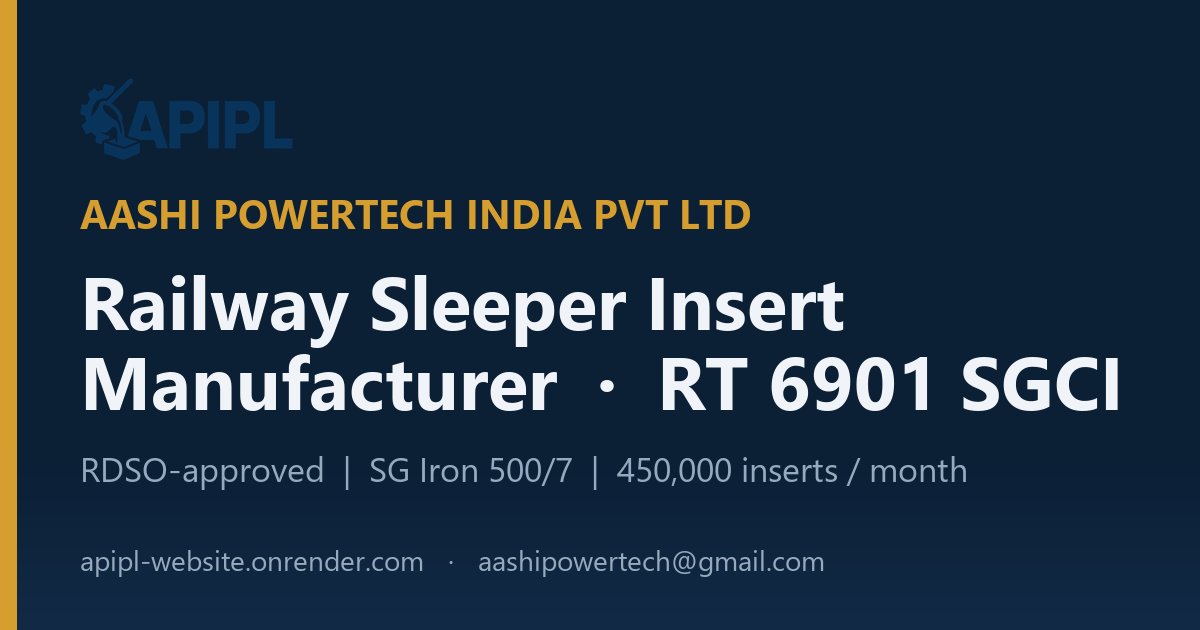
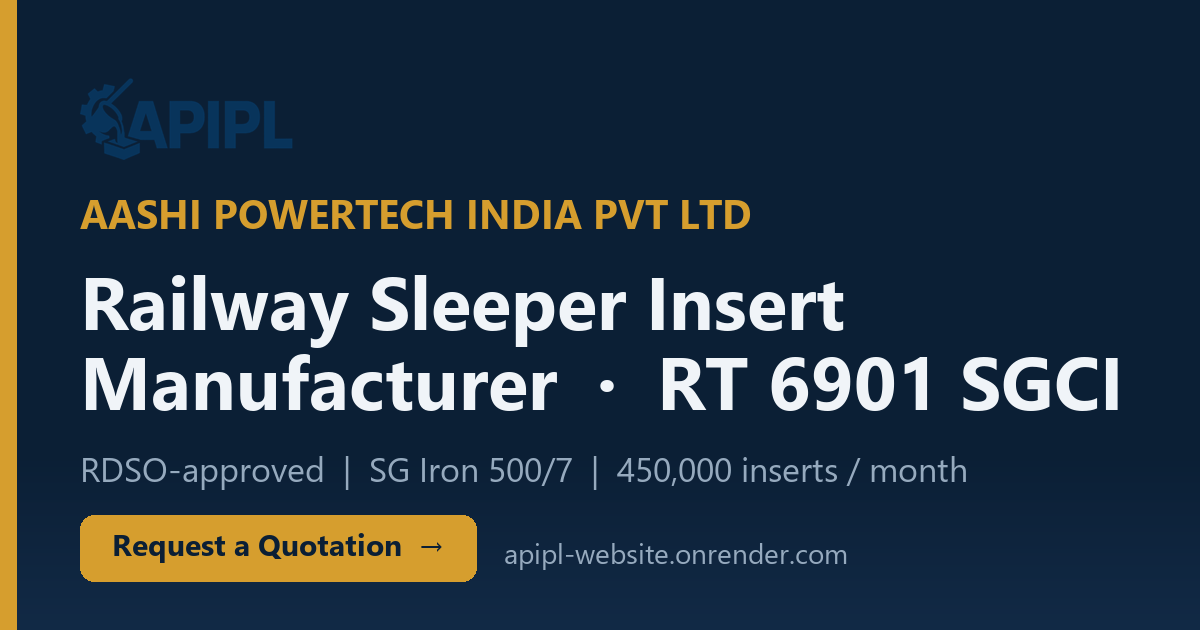
Optimize SEO/social meta lengths and add CTA to OG image
- Trim page title, meta description, og/twitter title and description to recommended lengths
- Add 'Request a Quotation' call-to-action button to the OG share image

Changed region(s): [[0.0617, 0.8143, 0.7092, 0.9349]]

diff --git a/index.html b/index.html
@@ -6,10 +6,10 @@
     <meta name="theme-color" content="#0b1f35" />
 
     <!-- Primary SEO -->
-    <title>APIPL | Railway Sleeper Insert Manufacturer in India | RT 6901 SGCI Insert</title>
+    <title>APIPL | Railway Sleeper Insert Manufacturer in India</title>
     <meta
       name="description"
-      content="Aashi Powertech India Pvt Ltd (APIPL) is an RDSO-approved manufacturer of precision railway sleeper inserts — the RT 6901 SG iron (SGCI) insert for concrete sleepers. ARPA 350 casting lines producing 450,000 inserts/month. Request a quotation."
+      content="RDSO-approved manufacturer of precision railway sleeper inserts — the RT 6901 SG iron (SGCI) insert for concrete sleepers. Request a quotation."
     />
     <meta
       name="keywords"
@@ -28,10 +28,10 @@
     <!-- Open Graph / Facebook / LinkedIn / WhatsApp -->
     <meta property="og:type" content="website" />
     <meta property="og:site_name" content="APIPL — Aashi Powertech India Private Limited" />
-    <meta property="og:title" content="APIPL | Railway Sleeper Insert Manufacturer | RT 6901 SGCI Insert" />
+    <meta property="og:title" content="APIPL | Railway Sleeper Insert Manufacturer in India" />
     <meta
       property="og:description"
-      content="RDSO-approved manufacturer of precision railway sleeper inserts. RT 6901 SG iron insert engineered for concrete sleepers — 450,000 units/month on ARPA 350 lines."
+      content="RDSO-approved manufacturer of precision railway sleeper inserts. RT 6901 SG iron insert. Request a quotation."
     />
     <meta property="og:url" content="https://apipl-website.onrender.com/" />
     <meta property="og:image" content="https://apipl-website.onrender.com/assets/og-image.png" />
@@ -42,10 +42,10 @@
 
     <!-- Twitter / X -->
     <meta name="twitter:card" content="summary_large_image" />
-    <meta name="twitter:title" content="APIPL | Railway Sleeper Insert Manufacturer | RT 6901 SGCI Insert" />
+    <meta name="twitter:title" content="APIPL | Railway Sleeper Insert Manufacturer in India" />
     <meta
       name="twitter:description"
-      content="RDSO-approved manufacturer of precision railway sleeper inserts. RT 6901 SG iron insert for concrete sleepers — 450,000 units/month."
+      content="RDSO-approved manufacturer of precision railway sleeper inserts. RT 6901 SG iron insert. Request a quotation."
     />
     <meta name="twitter:image" content="https://apipl-website.onrender.com/assets/og-image.png" />
 

diff --git a/make_og_image.py b/make_og_image.py
@@ -63,7 +63,18 @@ d.text((x0, 330), "Manufacturer  ·  RT 6901 SGCI", font=f_title, fill=WHITE)
 d.text((x0, 445), "RDSO-approved  |  SG Iron 500/7  |  450,000 inserts / month",
        font=f_sub, fill=MUTED)
 
-d.text((x0, 540), "apipl-website.onrender.com   ·   aashipowertech@gmail.com",
+# Call-to-action button (improves click-through on social previews)
+f_cta = load_font(30)
+cta_text = "Request a Quotation  \u2192"
+bbox = d.textbbox((0, 0), cta_text, font=f_cta)
+tw, th = bbox[2] - bbox[0], bbox[3] - bbox[1]
+pad_x, pad_y = 32, 18
+btn_x0, btn_y0 = x0, 515
+btn_x1, btn_y1 = btn_x0 + tw + pad_x * 2, btn_y0 + th + pad_y * 2
+d.rounded_rectangle([btn_x0, btn_y0, btn_x1, btn_y1], radius=14, fill=ACCENT)
+d.text((btn_x0 + pad_x, btn_y0 + pad_y - bbox[1]), cta_text, font=f_cta, fill=BG)
+
+d.text((btn_x1 + 28, btn_y0 + 18), "apipl-website.onrender.com",
        font=f_tag, fill=MUTED)
 
 out = "public/assets/og-image.png"
